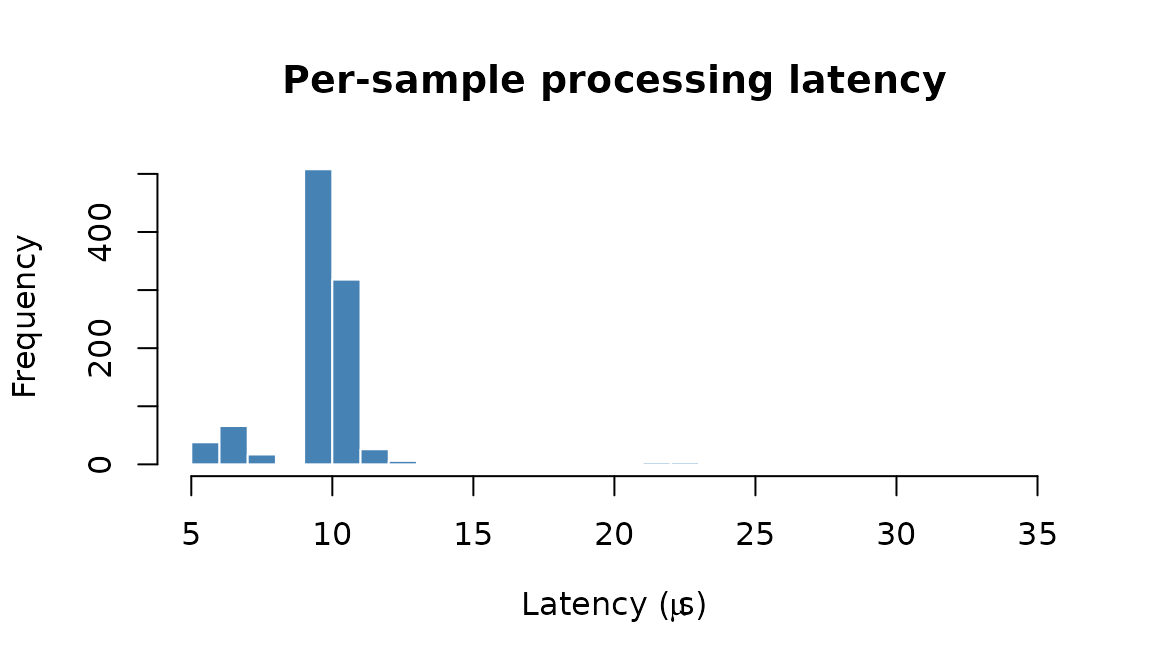
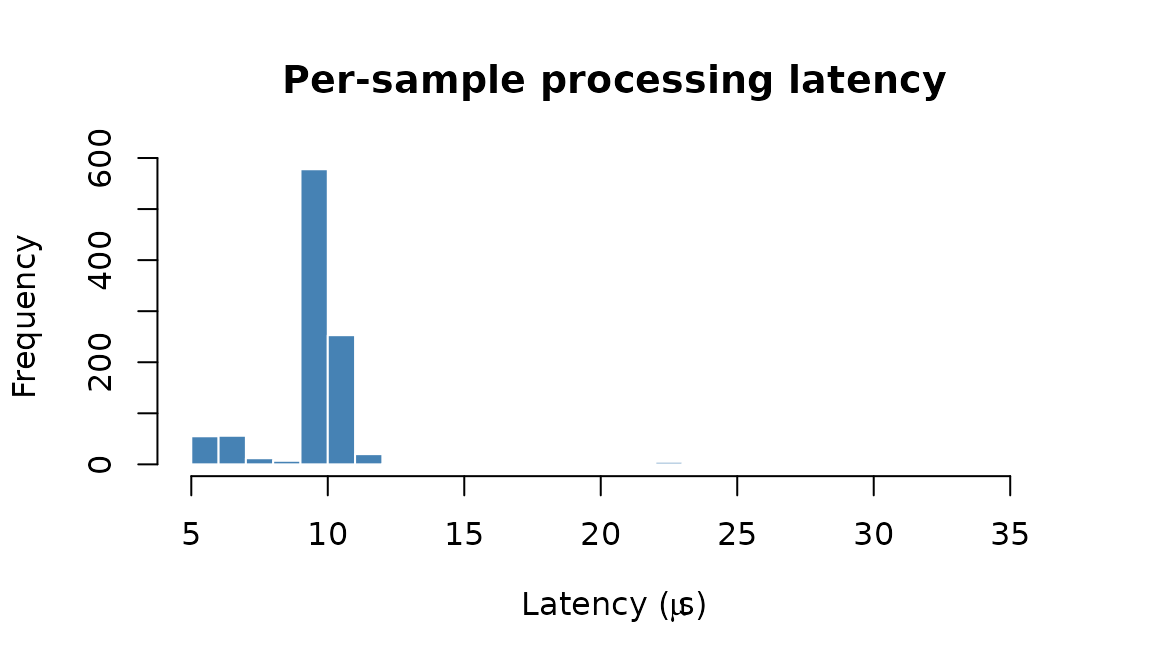
Deploying to gh-pages from @ mkyou/rLifting@5dfbfaf6a7dff0f02a59f73bc1c9030d29e13d8a 🚀

diff --git a/articles/realtime.html b/articles/realtime.html
@@ -222,11 +222,11 @@ per-sample overhead is extremely low:</p>
 <span><span class="va">latency_us</span> <span class="op">=</span> <span class="va">process_time</span><span class="op">[</span><span class="op">-</span><span class="fl">1</span><span class="op">]</span> <span class="op">*</span> <span class="fl">1e6</span></span>
 <span></span>
 <span><span class="fu"><a href="https://rdrr.io/r/base/cat.html" class="external-link">cat</a></span><span class="op">(</span><span class="fu"><a href="https://rdrr.io/r/base/sprintf.html" class="external-link">sprintf</a></span><span class="op">(</span><span class="st">"Median latency: %.1f \u00b5s\n"</span>, <span class="fu"><a href="https://rdrr.io/r/stats/median.html" class="external-link">median</a></span><span class="op">(</span><span class="va">latency_us</span><span class="op">)</span><span class="op">)</span><span class="op">)</span></span>
-<span><span class="co">#&gt; Median latency: 9.8 µs</span></span>
+<span><span class="co">#&gt; Median latency: 9.5 µs</span></span>
 <span><span class="fu"><a href="https://rdrr.io/r/base/cat.html" class="external-link">cat</a></span><span class="op">(</span><span class="fu"><a href="https://rdrr.io/r/base/sprintf.html" class="external-link">sprintf</a></span><span class="op">(</span><span class="st">"95th percentile: %.1f \u00b5s\n"</span>, <span class="fu"><a href="https://rdrr.io/r/stats/quantile.html" class="external-link">quantile</a></span><span class="op">(</span><span class="va">latency_us</span>, <span class="fl">0.95</span><span class="op">)</span><span class="op">)</span><span class="op">)</span></span>
-<span><span class="co">#&gt; 95th percentile: 11.2 µs</span></span>
+<span><span class="co">#&gt; 95th percentile: 10.8 µs</span></span>
 <span><span class="fu"><a href="https://rdrr.io/r/base/cat.html" class="external-link">cat</a></span><span class="op">(</span><span class="fu"><a href="https://rdrr.io/r/base/sprintf.html" class="external-link">sprintf</a></span><span class="op">(</span><span class="st">"Max latency: %.1f \u00b5s\n"</span>, <span class="fu"><a href="https://rdrr.io/r/base/Extremes.html" class="external-link">max</a></span><span class="op">(</span><span class="va">latency_us</span><span class="op">)</span><span class="op">)</span><span class="op">)</span></span>
-<span><span class="co">#&gt; Max latency: 34.6 µs</span></span></code></pre></div>
+<span><span class="co">#&gt; Max latency: 35.0 µs</span></span></code></pre></div>
 <div class="sourceCode" id="cb5"><pre class="downlit sourceCode r">
 <code class="sourceCode R"><span><span class="fu"><a href="https://rdrr.io/r/graphics/hist.html" class="external-link">hist</a></span><span class="op">(</span><span class="va">latency_us</span>,</span>
 <span>     main <span class="op">=</span> <span class="st">"Per-sample processing latency"</span>,</span>

diff --git a/articles/realtime.md b/articles/realtime.md
@@ -115,11 +115,11 @@ per-sample overhead is extremely low:
 latency_us = process_time[-1] * 1e6
 
 cat(sprintf("Median latency: %.1f \u00b5s\n", median(latency_us)))
-#> Median latency: 9.8 µs
+#> Median latency: 9.5 µs
 cat(sprintf("95th percentile: %.1f \u00b5s\n", quantile(latency_us, 0.95)))
-#> 95th percentile: 11.2 µs
+#> 95th percentile: 10.8 µs
 cat(sprintf("Max latency: %.1f \u00b5s\n", max(latency_us)))
-#> Max latency: 34.6 µs
+#> Max latency: 35.0 µs
 ```
 
 ``` r
